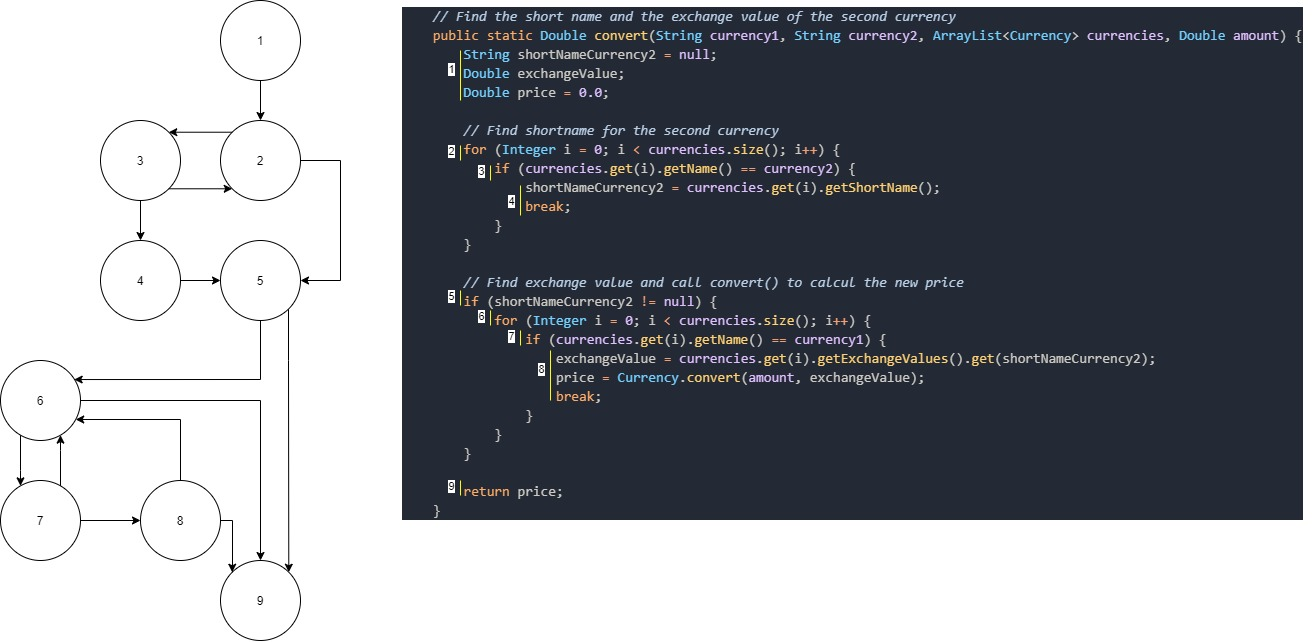
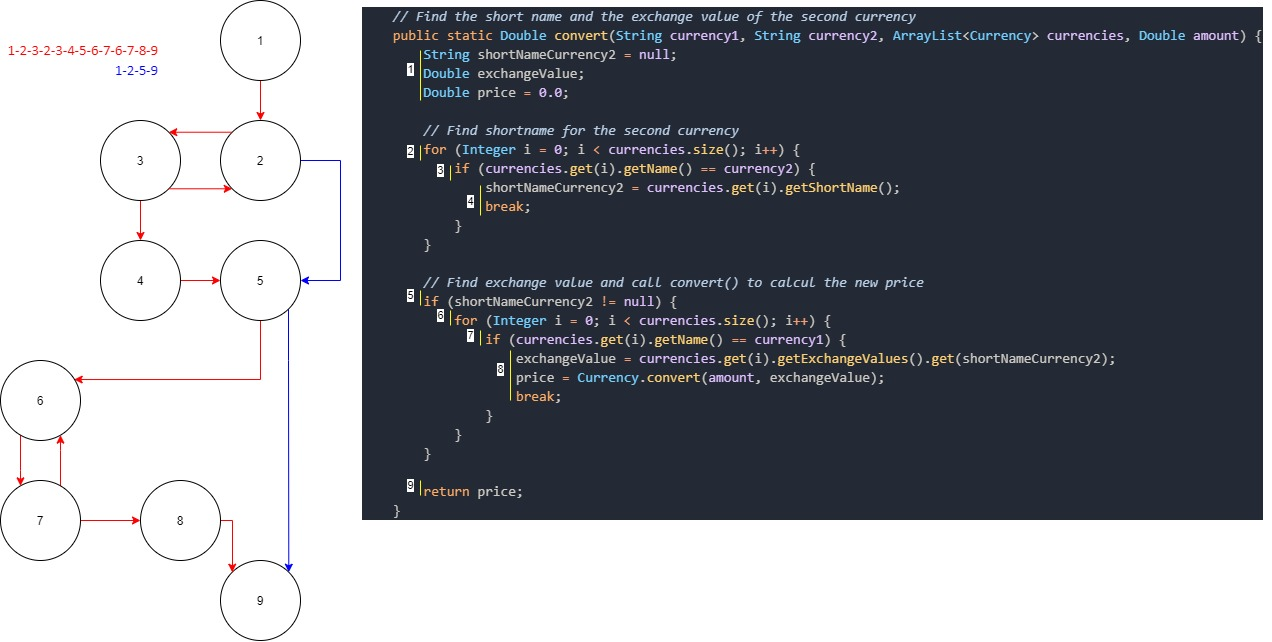
Fix aux tests et finalisation du flowchart et ajout du rapport.

diff --git a/currency-converter-in-java/src/test/CurrencyTest.java b/currency-converter-in-java/src/test/CurrencyTest.java
@@ -1,97 +1,30 @@
 package test;
 
-import static org.junit.Assert.assertNull;
-import static org.junit.Assert.assertTrue;
-import static org.junit.Assume.assumeTrue;
+import static org.junit.Assert.assertEquals;
 import static org.junit.jupiter.api.Assertions.assertAll;
-import static org.junit.jupiter.api.Assertions.assertEquals;
-import static org.junit.jupiter.api.Assertions.assertNotNull;
 
-import java.util.ArrayList;
 import java.util.Arrays;
-import java.util.Collection;
-import java.util.List;
-import java.util.stream.Collectors;
 
-import org.junit.jupiter.api.Assertions;
-import org.junit.jupiter.api.BeforeEach;
 import org.junit.jupiter.api.Test;
-
 
 import currencyConverter.Currency;
 
 public class CurrencyTest {
 
-    ArrayList<Currency> currencies;
-
-    Currency testCadCurrency;
-    List<String> testCurrencies;
-    List<String> acceptedCurrencies;
-    List<String> unacceptedCurrencies;
-
-
-    @BeforeEach
-    void setUp() {
-        // testCurrencies = List.of("USD", "EUR", "GBP", "CHF", "CNY", "JPY");
-        testCurrencies = List.of("USD", "EUR", "GBP", "CHF", "CNY", "JPY", "CAD");
-        acceptedCurrencies = List.of("USD", "CAD", "GBP", "EUR", "CHF", "AUD");
-        unacceptedCurrencies = Lidt.of.asList("JPY", "CNY");
-        testCadCurrency = new Currency("CA Dollar", "CAD");
-
-        testCadCurrency.setExchangeValues("USD", 1.00);
-        testCadCurrency.setExchangeValues("EUR", 0.93);
-        testCadCurrency.setExchangeValues("GBP", 0.66);
-        testCadCurrency.setExchangeValues("CHF", 1.01);
-        testCadCurrency.setExchangeValues("CNY", 6.36);
-        testCadCurrency.setExchangeValues("JPY", 123.54);
-
-        currencies = Currency.init();
-        currencies.add(testCadCurrency);
-    }
-
-    // A black box domain test and limit values.
+    // A black box domain test and limit values test.
     @Test
-    public void testConvert() {
+    public void testConvertBlackBox() {
         double[] amounts = {-1000000, -1, 0, 1, 500000, 1000000, 1000001, 2000000};
 
-        // Verify the conversion is accurate and precise.
-        assertAll(
+        assertAll("Currency.convert domain and limit values tests.",
             () -> Arrays.stream(amounts)
-                        .forEach(a -> assertEquals(Currency.convert(a, 2.0d), a * 2.0d))
+                        .forEach(a -> assertEquals(a * 2.0d, Currency.convert(a, 2.0d), 0.01d))
         );
     }
 
+    // A white box test of the only path on the flux diagram.
     @Test
-    public void testAcceptedCurrencies() {
-        assertAll("Testing accepted currencies",
-            () -> currencies.forEach(currency ->
-                acceptedCurrencies.forEach(ac ->
-                    assertNotNull(currency.getExchangeValues().get(ac), 
-                                  "Currency not supported: " + ac)
-                )
-            )
-        );
+    public void testConvertWhiteBox() {
+        assertEquals(Currency.convert(100.00d, 2.0d), 100.00d * 2.0d, 0.01d);
     }
-
-    @Test
-    public void testUnacceptedCurrencies() {
-        assertAll("Testing unaccepted currencies",
-            () -> currencies.forEach(currency ->
-                unacceptedCurrencies.forEach(uc ->
-                    assertNull("Currency should not be supported: " + uc,
-                               currency.getExchangeValues().get(uc))
-                )
-            )
-        );
-    }
-    // A black box test of the types of currencies accepted.
-    // @Test
-    // public void testCurrencies() {
-
-    //     assertAll(
-    //         () -> testCurrencies.stream().forEach(tc -> 
-    //                 assertTrue(currencies.stream().map(c -> 
-    //                     c.getShortName()).collect(Collectors.toList()).contains(tc)))
-    //     );
-    // }
 }

diff --git a/currency-converter-in-java/src/test/MainWindowTest.java b/currency-converter-in-java/src/test/MainWindowTest.java
@@ -18,7 +18,7 @@ public class MainWindowTest {
     Currency testCadCurrency;
     Currency testAudCurrency;
 
-    double testAmount = 100.07d;
+    double testAmount = 500000;
 
     @BeforeEach
     void setUp() {
@@ -37,15 +37,21 @@ public class MainWindowTest {
         assertEquals((testAmount * 88.00d), MainWindow.convert("US Dollar", "AU Dollar", allCurrencies, testAmount), 0.01d);
         assertEquals((testAmount * 22.00d), MainWindow.convert("CA Dollar", "Euro", allCurrencies, testAmount), 0.01d);
         assertEquals((testAmount * 33.00d), MainWindow.convert("CA Dollar", "AU Dollar", allCurrencies, testAmount), 0.01d);
-
-        
     }
 
     @Test
     void testConvertWhiteBox() {
-        MainWindow.convert("USD", "EUR", appCurrencies, 100.0d);
+        assertEquals((-1000000.00 * 0.93), MainWindow.convert("US Dollar", "Euro", appCurrencies, -1000000.00), 0.01d);
+        assertEquals((-1.00 * 0.93), MainWindow.convert("US Dollar", "Euro", appCurrencies, -1.00), 0.01d);
+        assertEquals(0, MainWindow.convert("US Dollar", "Euro", appCurrencies, 0.00), 0.01d);
+        assertEquals((500000.00 * 0.93), MainWindow.convert("US Dollar", "Euro", appCurrencies, 500000.00), 0.01d);
+        assertEquals((1000000.00 * 0.93), MainWindow.convert("US Dollar", "Euro", appCurrencies, 1000000.00), 0.01d);
+        assertEquals((1000001.00 * 0.93), MainWindow.convert("US Dollar", "Euro", appCurrencies, 1000001.00), 0.01d);
+        assertEquals((2000000.00 * 0.93), MainWindow.convert("US Dollar", "Euro", appCurrencies, 2000000.00), 0.01d);
     }
 
+    // Create the currencies list from the app.
+    // Add the 
     private void setUpCurrencies() {
         testCadCurrency = new Currency("CA Dollar", "CAD");
         testAudCurrency = new Currency("AU Dollar", "AUD");

diff --git a/currency-converter-in-java/src/currencyConverter/MainWindow.java b/currency-converter-in-java/src/currencyConverter/MainWindow.java
@@ -176,7 +176,7 @@ public class MainWindow extends JFrame {
 		Double price = 0.0;
 		
 		// Find shortname for the second currency
-		for (Integer i = 0; i < currencies.size(); i++) {
+		for (Integer i = 0; i < currencies.size(); i++) {	
 			if (currencies.get(i).getName() == currency2) {
 				shortNameCurrency2 = currencies.get(i).getShortName();
 				break;
